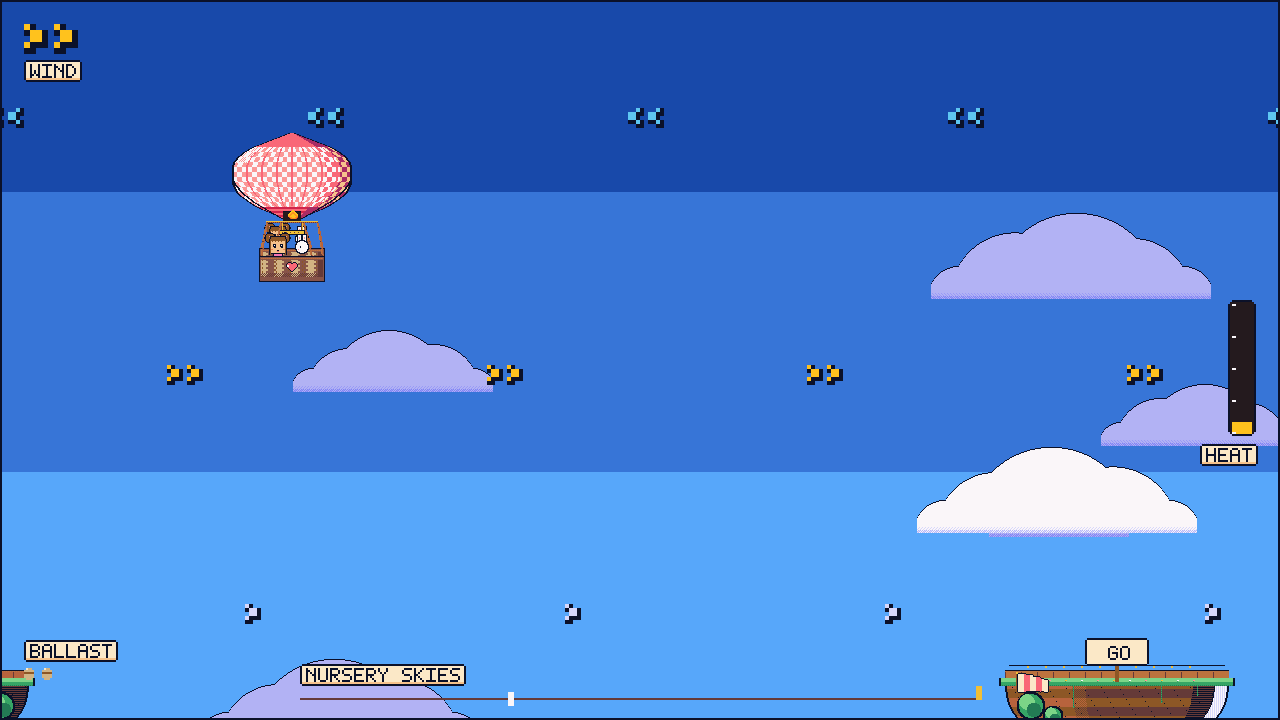
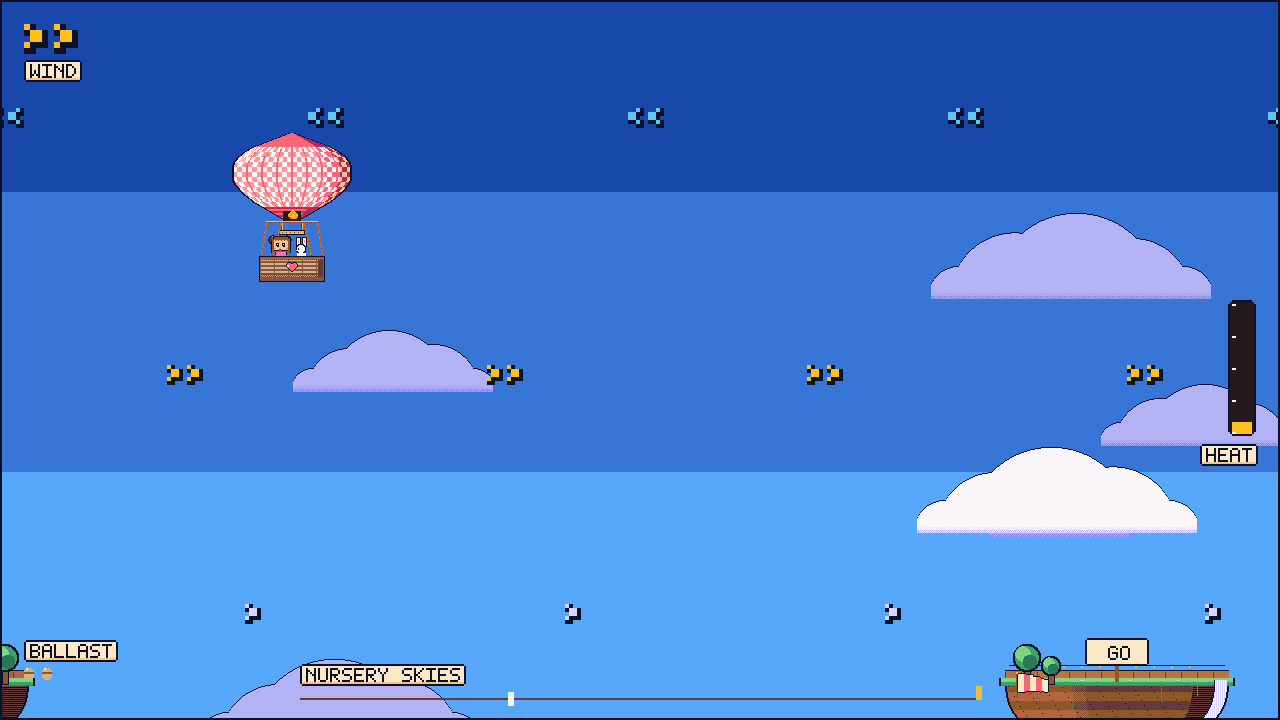
fix(art): one Charlotte, a bunny that reads as a bunny, scenery on the surface
Playtest review: the basket looked like it carried two Charlottes (the hair
mass above the eyes read as a second head and the rabbit's head was as big
as hers), and every tree on the islands hung on the flank below the deck -
scenery below the surface, not on it. The whole thing read unpolished.

- Charlotte: compact face block below the burner, temple buns with beads
  instead of a bun crown, head + dress sliver only above the basket rim.
- Bunny: clearly smaller, ears far taller than his head, ink eye and pink
  nose in profile so the silhouette cannot be a second girl.
- Basket: horizontal wicker bands with stakes over them, shaded face,
  heart emblem kept.
- Islands: cell grows 100 -> 124 internal rows (16 design px of headroom),
  trees stand ON the surface beside the deck (canopies clear the deck line,
  trunks run behind the planks); bunting, flowers, vines, waterfall and the
  violet underside all shift with it. WorldScreen's island offset follows
  so the deck line stays exactly at groundY - 38.

Initiative: 8 (sheet-fidelity rework, round 2)
Verified: audit ok 768x714; xunit 47/47; Playwright green; reviewed
docs/screenshots/02-world + 03-delivery at both viewports.

Changed region(s): [[0.7812, 0.8861, 0.9375, 1.0], [0.1875, 0.3056, 0.25, 0.3972], [0.0, 0.8861, 0.0312, 1.0]]

diff --git a/art/.art/generate.js b/art/.art/generate.js
@@ -172,42 +172,46 @@ function rigging() {
   rope(CX - 12, 90, 40, 124);
   rope(CX + 11, 90, 79, 124);
   rope(CX + 25, 90, 90, 124);
-  // ---- Charlotte: the sheet's chibi — big glossy eyes, brown hair with buns + pink beads,
-  // blush, open smile, pink dress. Painted in front of the rim she sits behind.
-  const hx = 34, hy = 102;                            // head box origin; head 24x22
-  px.push(...disc(hx + 4, hy + 3, 4.5, PAL.hair, PAL.K), ...disc(hx + 19, hy + 3, 4.5, PAL.hair, PAL.K)); // buns
-  px.push([hx + 3, hy + 1, PAL.gp], [hx + 4, hy + 1, PAL.gp], [hx + 19, hy + 1, PAL.gp], [hx + 20, hy + 1, PAL.gp]); // beads
-  px.push(...obox(hx + 5, hy + 2, 14, 16, PAL.skin, PAL.K));                                          // face
-  for (let x = hx + 5; x < hx + 19; x++) for (let y = hy + 2; y < hy + 6; y++) px.push([x, y, PAL.hair]); // hair cap
-  for (let x = hx + 6; x < hx + 18; x += 3) px.push([x, hy + 6, PAL.hair]);                            // bangs zigzag
-  for (let y = hy + 4; y < hy + 20; y++) {                                                             // side hair
-    px.push([hx + 4, y, PAL.hair], [hx + 3, y, PAL.K], [hx + 19, y, PAL.hair], [hx + 20, y, PAL.K]);
+  // ---- Charlotte: ONE chibi head, clearly below the burner and sitting inside the basket.
+  // The earlier pass stacked buns above the hairline so the hair read as a second head — buns
+  // now sit at the temples (space-buns off the sheet), the face is a compact block, and only
+  // her head and a sliver of dress rise above the basket rim.
+  px.push(...disc(41, 107, 3.5, PAL.hair, PAL.K), ...disc(55, 107, 3.5, PAL.hair, PAL.K));          // temple buns
+  px.push([40, 103, PAL.gp], [41, 103, PAL.gp], [55, 103, PAL.gp], [56, 103, PAL.gp]);              // pink beads on the buns
+  px.push(...obox(42, 104, 14, 13, PAL.skin, PAL.K));                                               // face
+  for (let x = 42; x <= 55; x++) for (let y = 104; y <= 106; y++) px.push([x, y, PAL.hair]);        // hair cap
+  for (let x = 43; x <= 55; x += 3) px.push([x, 107, PAL.hair]);                                    // bangs zigzag
+  for (let y = 106; y <= 119; y++) {                                                                // long side hair to the rim
+    px.push([40, y, PAL.hair], [41, y, PAL.hair], [56, y, PAL.hair], [57, y, PAL.hair]);
+    px.push([39, y, PAL.K], [58, y, PAL.K]);
   }
   // big glossy eyes: 3x4 ink with a cream shine pixel, the sheet's signature
-  ascii(["KKK", "KCK", "KKK", ".KK."], hx + 7, hy + 9, { K: "K", C: "C" }).forEach(p => px.push(p));
-  ascii(["KKK", "KCK", "KKK", ".KK."], hx + 14, hy + 9, { K: "K", C: "C" }).forEach(p => px.push(p));
-  px.push([hx + 5, hy + 14, PAL.cheek], [hx + 6, hy + 14, PAL.cheek], [hx + 18, hy + 14, PAL.cheek], [hx + 17, hy + 14, PAL.cheek]);
-  px.push([hx + 11, hy + 15, PAL.K], [hx + 12, hy + 15, PAL.K], [hx + 11, hy + 16, PAL.gP], [hx + 12, hy + 16, PAL.gP]); // smile
-  px.push(...obox(hx + 8, hy + 19, 8, 6, PAL.dress, PAL.K));                                           // dress body
-  // ---- the bunny, riding her right: cream, tall ears with pink insides, ink eye
-  const bx = 70, by = 108;
-  px.push(...obox(bx - 4, by - 6, 3, 9, PAL.cream, PAL.K), ...obox(bx + 1, by - 6, 3, 9, PAL.cream, PAL.K)); // ears
-  px.push([bx - 3, by - 4, PAL.gp], [bx - 3, by - 3, PAL.gp], [bx + 2, by - 4, PAL.gp], [bx + 2, by - 3, PAL.gp]); // inner ears
-  px.push(...disc(bx, by + 6, 6, PAL.cream, PAL.K));                                                   // head
-  px.push([bx - 2, by + 5, PAL.K], [bx - 2, by + 6, PAL.K]);                                           // eye
-  px.push([bx - 4, by + 8, PAL.gp]);                                                                   // nose
-  // ---- basket: oversize wicker with the sheet's heart emblem
+  ascii(["KKK", "KCK", "KKK", ".KK."], 44, 110, { K: "K", C: "C" }).forEach(p => px.push(p));
+  ascii(["KKK", "KCK", "KKK", ".KK."], 50, 110, { K: "K", C: "C" }).forEach(p => px.push(p));
+  px.push([42, 115, PAL.cheek], [43, 115, PAL.cheek], [54, 115, PAL.cheek], [55, 115, PAL.cheek]);  // blush
+  px.push([47, 116, PAL.K], [48, 116, PAL.K], [47, 117, PAL.gP], [48, 117, PAL.gP]);                // smile
+  for (let x = 44; x <= 53; x++) for (let y = 119; y <= 122; y++) px.push([x, y, PAL.dress]);       // dress above the rim
+  px.push([43, 119, PAL.K], [43, 120, PAL.K], [43, 121, PAL.K], [54, 119, PAL.K], [54, 120, PAL.K], [54, 121, PAL.K]);
+  // ---- the bunny: clearly NOT a second girl — smaller than Charlotte, ears far taller than
+  // his head, a 2 px ink eye and a pink nose in profile so the silhouette is unmistakable.
+  px.push(...obox(65, 105, 3, 8, PAL.cream, PAL.K), ...obox(71, 105, 3, 8, PAL.cream, PAL.K));      // tall ears
+  px.push([66, 107, PAL.gp], [66, 108, PAL.gp], [66, 109, PAL.gp], [72, 107, PAL.gp], [72, 108, PAL.gp], [72, 109, PAL.gp]); // inner ears
+  px.push(...disc(69, 116, 4.2, PAL.cream, PAL.K));                                                 // small head
+  px.push([66, 115, PAL.K], [66, 116, PAL.K]);                                                      // eye, facing Charlotte
+  px.push([64, 117, PAL.gp]);                                                                       // nose at the profile edge
+  for (let x = 65; x <= 73; x++) for (let y = 120; y <= 122; y++) px.push([x, y, PAL.cream]);       // body into the rim
+  // ---- basket: oversize wicker with the sheet's heart emblem. Weave reads as horizontal
+  // wicker rows (2 px lit / 2 px dark bands) with stakes over them, not a checkerboard.
   const L = 28, W = 64, T = 124, B = 148;
   px.push(...obox(L, T, W, B - T, PAL.wd, PAL.K));
-  for (let x = L + 1; x < L + W - 1; x++) px.push([x, T + 1, (x & 1) ? PAL.w0 : PAL.w1]);               // lit rim
+  for (let x = L + 1; x < L + W - 1; x++) { px.push([x, T + 1, (x & 1) ? PAL.w0 : PAL.w1]); px.push([x, T + 2, (x & 1) ? PAL.w1 : PAL.w2]); } // rope rim
   for (let y = T + 3; y < B - 4; y++) {
-    const offset = (y % 4 < 2) ? 0 : 2;                                                                // brick weave
+    const lit = ((y - T) >> 1) % 2 === 1;                                                           // 2-row wicker bands
     for (let x = L + 1; x < L + W - 1; x++) {
-      const cell = (((x - L + offset) >> 3) % 2) === 0;
-      let hex = cell ? PAL.wk : PAL.wd;
-      if (((x - offset) % 14) === 0) hex = PAL.bark;                                                   // stakes
-      if (x >= L + W - 6) hex = PAL.w2;                                                                // shaded face
-      if (y >= B - 8 && (x + y) % 2 === 0) hex = PAL.w2;                                               // foot dither
+      let hex = lit ? PAL.wk : PAL.wd;
+      if (((x - L) % 14) === 0) hex = PAL.bark;                                                     // stakes over the weave
+      if (x >= L + W - 6) hex = PAL.w2;                                                             // shaded face
+      if (y >= B - 8 && (x + y) % 2 === 0) hex = PAL.w2;                                            // foot dither
       px.push([x, y, hex]);
     }
   }
@@ -358,18 +362,18 @@ function heart(filled) {
 }
 
 // ================================================================ islands
-// design 120x50 -> internal 240x100, origin 4 px above the deck line so the sprite carries the
-// whole stack: bunting (delivery only), plank deck, grass cap, rock underbelly to a point.
-// Launch and delivery differ in deck wood and the bunting — same silhouette builder.
+// design 120x62 -> internal 240x124: 16 px of headroom above the deck so trees and bunting stand
+// ON the island surface, then bunting (delivery only), plank deck, grass cap, rock underbelly to
+// a point. Launch and delivery differ in deck wood, bunting, tree and waterfall side.
 function island(delivery) {
   const W = 240, px = [];
-  const deckTop = 8, deckH = 8;                       // internal: 4 design px of plank at y 8..15
-  const capTop = 16, pointY = 100;                    // grass cap starts, rock tapers to here
+  const deckTop = 32, deckH = 8;                      // 24 rows of headroom: trees stand ON the island
+  const capTop = 40, pointY = 124;                    // grass cap starts, rock tapers to here
   const deckWood = delivery ? "w0" : "w1";
   // bunting: gold pips on a line across the delivery deck (the prize reads at a glance)
   if (delivery) {
-    for (let x = 30; x < W - 30; x += 18) px.push([x, 4, PAL.gold], [x + 1, 4, PAL.gold], [x, 5, PAL.gold], [x + 1, 5, PAL.gold]);
-    for (let x = 12; x < W - 12; x++) px.push([x, 3, PAL.K]); // the string, post to post
+    for (let x = 30; x < W - 30; x += 18) px.push([x, deckTop - 4, PAL.gold], [x + 1, deckTop - 4, PAL.gold], [x, deckTop - 3, PAL.gold], [x + 1, deckTop - 3, PAL.gold]);
+    for (let x = 12; x < W - 12; x++) px.push([x, deckTop - 5, PAL.K]); // the string, post to post
   }
   // deck: lit top line, plank seams every 16 px, shaded bottom edge. Width matches the sim's
   // landing tolerance exactly: DeckHalfWidth 56 design px = 112 internal, centred.
@@ -401,7 +405,7 @@ function island(delivery) {
         if (y === LIP - 1 && (x & 1) === 0) hex = PAL.leaf;  // dithered fringe into the rock
       } else {
         const u = (x - left) / Math.max(1, right - left - 1);
-        const yUnder = 70 - Math.round(u * 12);       // the shadow line rides higher up the right face
+        const yUnder = 92 - Math.round(u * 12);       // the shadow line rides higher up the right face
         if (y >= yUnder) {                            // violet underside, gathering to ink at the tip
           const deep = (y - yUnder) / 34;
           hex = ((x + y) & 1) ? PAL.rockD : PAL.rock;
@@ -428,20 +432,21 @@ function island(delivery) {
     for (let i = 0; i < len; i++) px.push([vx, LIP + i, i === len - 1 ? PAL.leaf : (i & 1) ? PAL.moss : PAL.leaf]);
     px.push([vx + 1, LIP + len - 2, PAL.moss]);
   });
-  // tree clusters on the flanks below the deck line (the deck itself must stay clear to land on)
+  // tree clusters standing on the island surface beside the deck — the sheet's trees sit on top,
+  // not on the flank. Canopies clear the deck line; trunks run down behind the planks.
   const tree = (cx, cy, r) => {
-    px.push(...obox(cx - 2, cy + r - 4, 5, r, PAL.bark, PAL.K));                    // trunk
+    px.push(...obox(cx - 2, cy + r - 4, 5, r + 6, PAL.bark, PAL.K));                // trunk
     px.push(...disc(cx, cy, r + 1.15, PAL.K, PAL.K), ...disc(cx, cy, r, PAL.leaf, PAL.K));
     px.push(...disc(cx - Math.round(r * 0.3), cy - Math.round(r * 0.35), r * 0.55, PAL.grass, PAL.grass));
     px.push(...disc(cx + Math.round(r * 0.28), cy + Math.round(r * 0.34), r * 0.5, PAL.moss, PAL.moss));
   };
-  if (delivery) { tree(34, 44, 12); tree(56, 54, 8); }
-  else { tree(204, 44, 12); tree(184, 55, 8); }
+  if (delivery) { tree(30, 20, 12); tree(54, 28, 8); }
+  else { tree(208, 20, 12); tree(184, 28, 8); }
   // waterfall down the delivery island's right flank, following the rock face inward as it
   // narrows, with a dithered splash foot where it leaves the island
   if (delivery) {
     let foot = 0;
-    for (let y = LIP; y < 92; y++) {
+    for (let y = deckTop + 10; y < pointY - 10; y++) {
       const right = Math.round(W / 2 + halfAt(y));
       for (let x = right - 14; x <= right - 3; x++) px.push([x, y, (x & 1) ? PAL.cl : PAL.cw]);
       px.push([right - 15, y, PAL.K]);
@@ -449,7 +454,7 @@ function island(delivery) {
     }
     for (let x = foot - 18; x <= foot; x++) {
       const s = 1 - Math.abs(x - (foot - 9)) / 10;
-      for (let y = 92; y < 100; y++) if (((x + y) & 1) === 0 && s > (y - 92) / 8) px.push([x, y, PAL.C]);
+      for (let y = pointY - 10; y < pointY; y++) if (((x + y) & 1) === 0 && s > (y - (pointY - 10)) / 10) px.push([x, y, PAL.C]);
     }
   }
   return px;
@@ -466,8 +471,8 @@ const SPRITES = {
   "windsock-1":   { w: 56, h: 26, frames: [windsock(1)] },
   "windsock-2":   { w: 66, h: 26, frames: [windsock(2), windsock(2, true)] },
   "windsock-3":   { w: 76, h: 26, frames: [windsock(3), windsock(3, true)] },
-  "island-launch":    { w: 240, h: 100, frames: [island(false)] },
-  "island-delivery":  { w: 240, h: 100, frames: [island(true)] },
+  "island-launch":    { w: 240, h: 124, frames: [island(false)] },
+  "island-delivery":  { w: 240, h: 124, frames: [island(true)] },
   "star-off":     { w: 12, h: 9, frames: [star(false)] },
   "star-on":      { w: 12, h: 9, frames: [star(true)] },
   "heart-off":    { w: 12, h: 9, frames: [heart(false)] },

diff --git a/Balloonatic/Balloonatic.Game/Screens/WorldScreen.cs b/Balloonatic/Balloonatic.Game/Screens/WorldScreen.cs
@@ -250,9 +250,11 @@ namespace Balloonatic.Screens
             if (x < -90 || x > Sim.DesignWidth + 90)
                 return;
 
-            // The sheet island: plank deck (exactly as wide as the sim's landing tolerance), grass
-            // cap, rock tapering to a point — delivery variant carries its own gold bunting.
-            Sprites.Draw(canvas, launch ? "island-launch" : "island-delivery", x - 60f, groundY - 42f);
+            // The sheet island: plank deck (exactly as wide as the sim's landing tolerance), trees
+            // standing on the surface, grass cap, rock tapering to a point — delivery carries gold
+            // bunting and a waterfall. The deck line sits 16 design px below the sprite's top edge,
+            // so the draw offset puts it where it always was: groundY - 38.
+            Sprites.Draw(canvas, launch ? "island-launch" : "island-delivery", x - 60f, groundY - 54f);
 
             // A sign on the deck: what this island is for, in the paper-and-ink language of the sheet.
             // The board glides with the island; its lettering holds the coarse grid (Round) — text that
